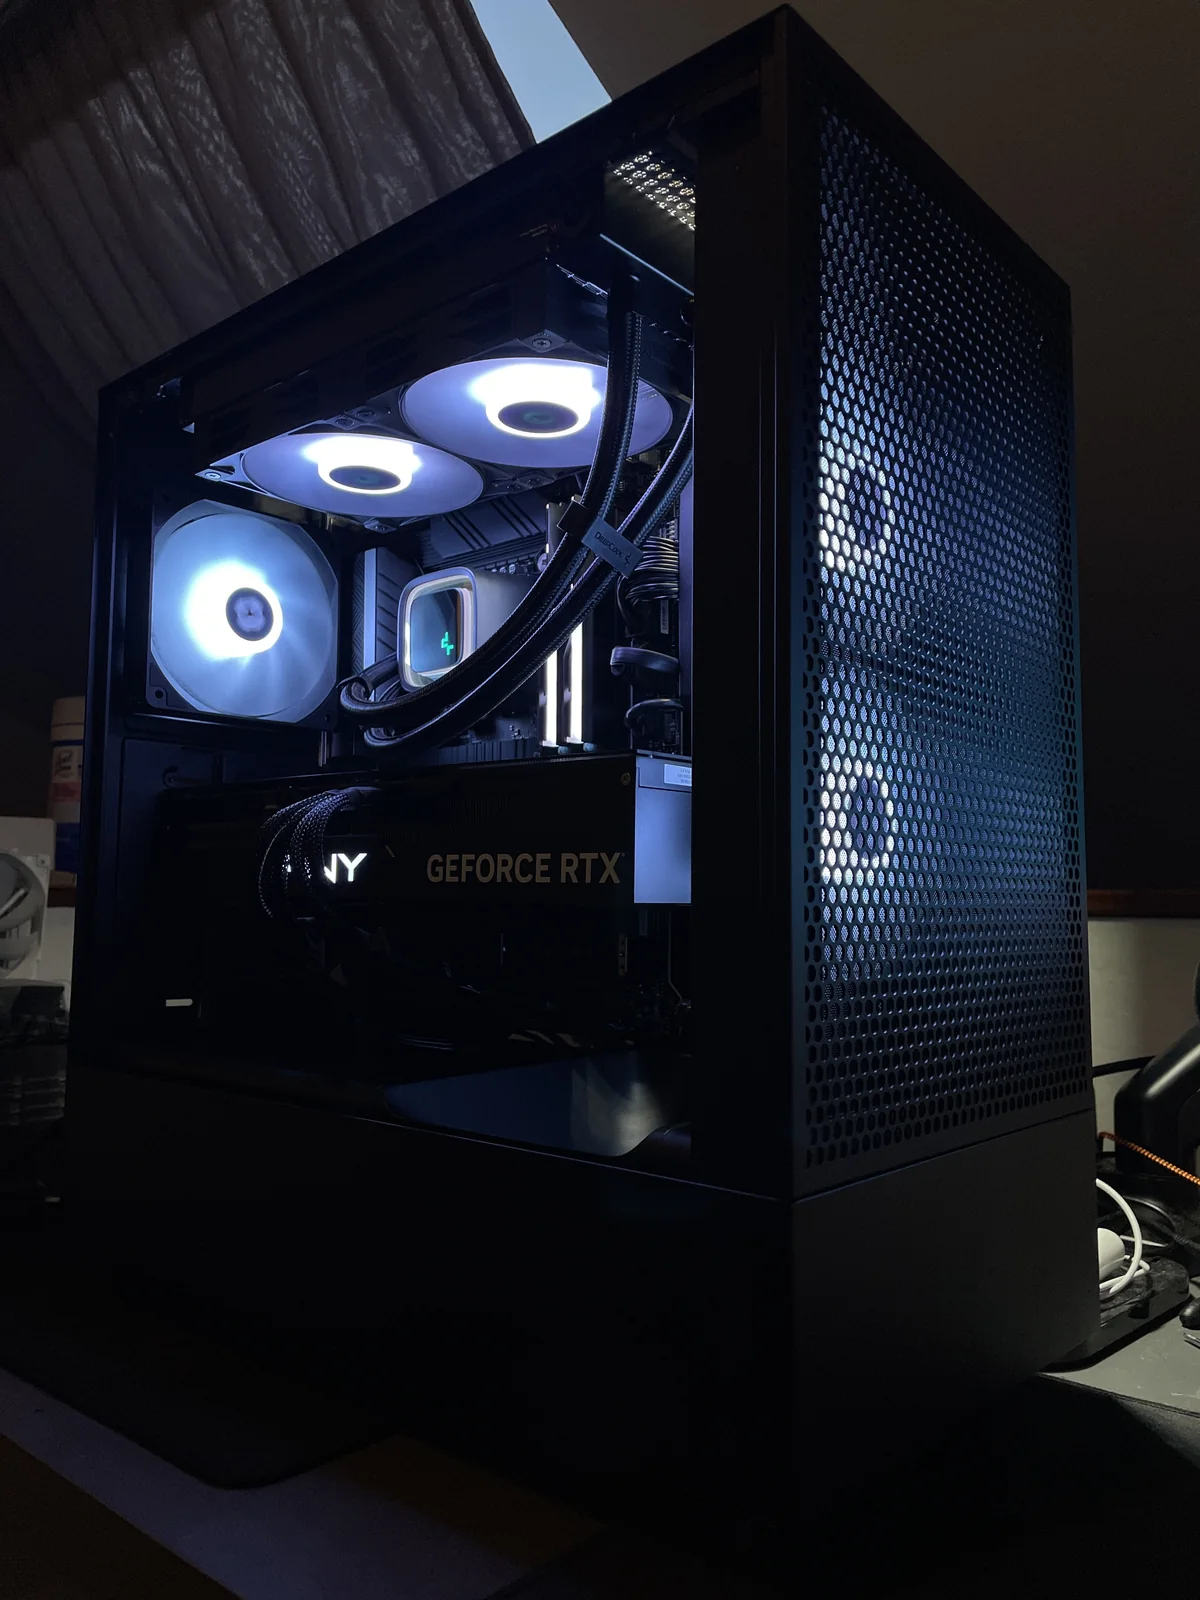
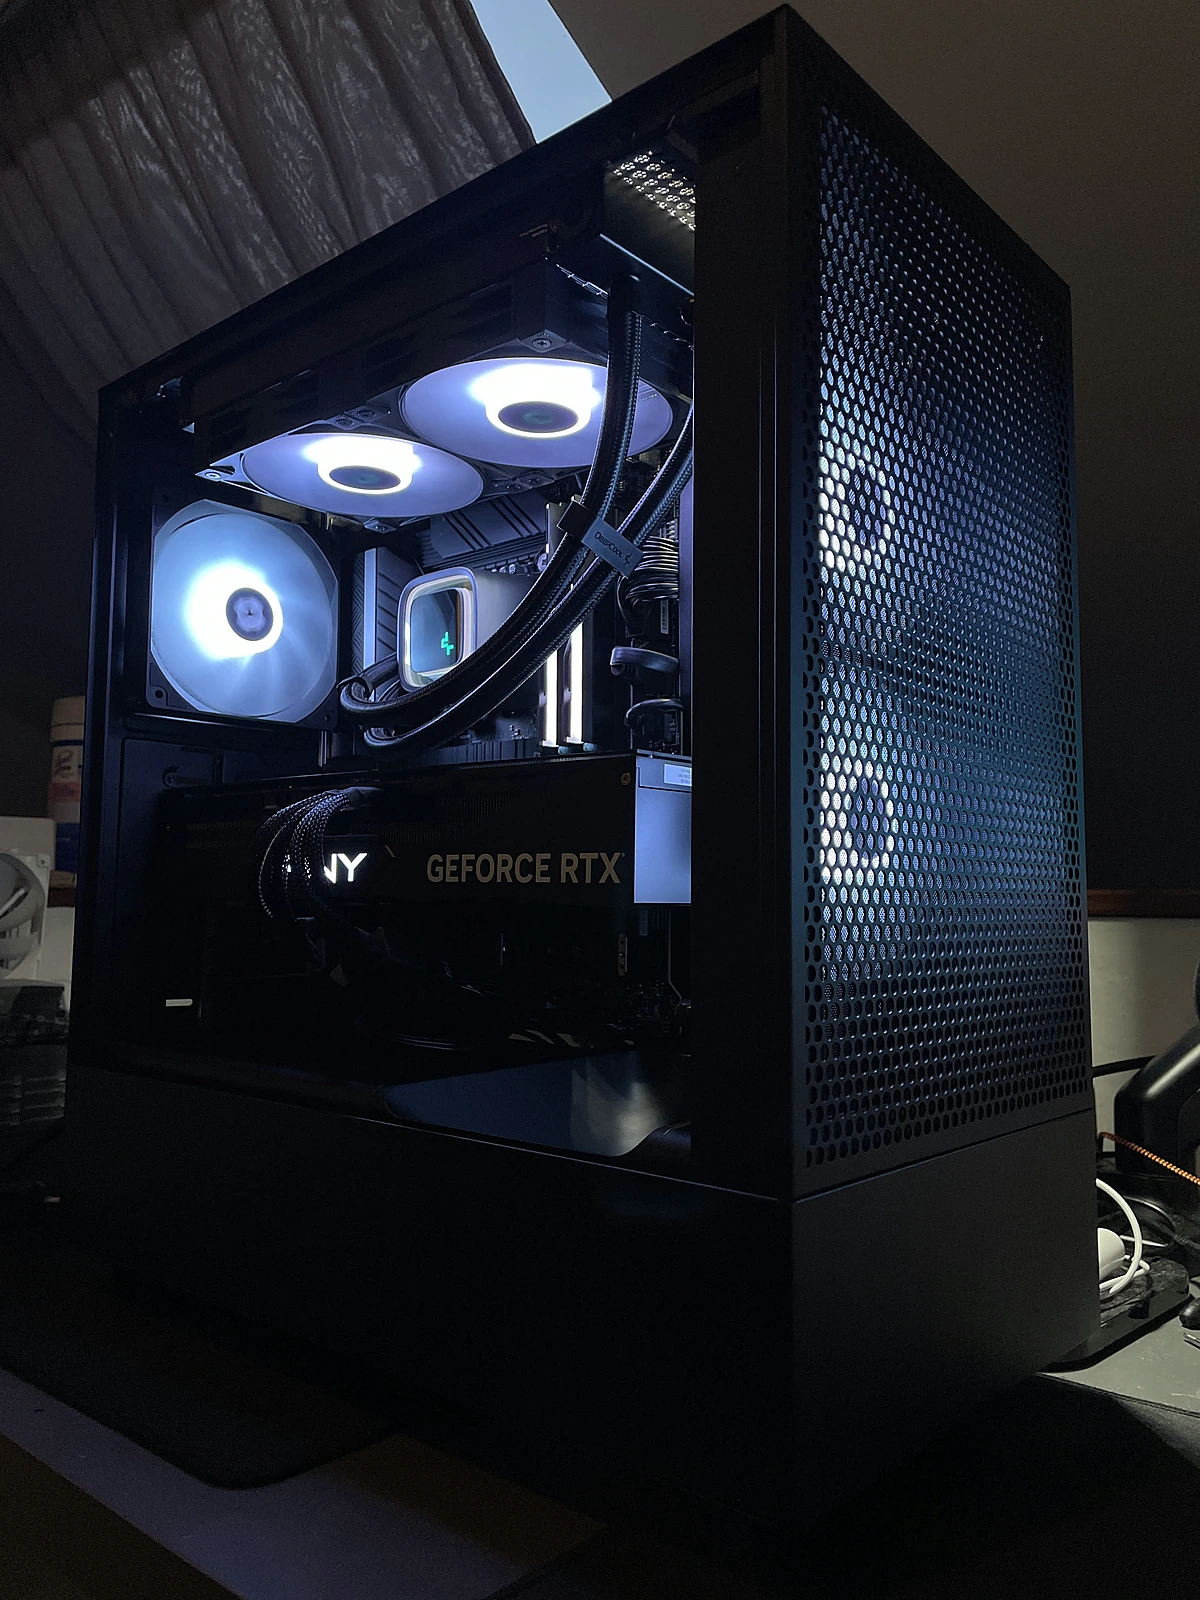
Improve build gallery experience

diff --git a/index.html b/index.html
@@ -84,6 +84,17 @@
   .proof h2{font-size:28px;color:var(--ink);margin-bottom:28px;}
   .photos{display:grid;grid-template-columns:1fr 1fr 1fr;gap:16px;margin-bottom:30px;}
   .photo{width:100%;height:auto;border:1px solid var(--border);border-radius:10px;display:block;}
+  .photo-button{appearance:none;background:none;border:0;padding:0;margin:0;width:100%;min-width:0;display:block;border-radius:10px;cursor:zoom-in;}
+  .photo-button:hover .photo{border-color:var(--blue);box-shadow:0 8px 22px rgba(59,107,181,.16);}
+  .photo-button:focus-visible{outline:2px solid var(--blue);outline-offset:3px;}
+  .lightbox{position:fixed;inset:0;z-index:1000;display:flex;align-items:center;justify-content:center;padding:24px;background:rgba(0,0,0,.88);}
+  .lightbox[hidden]{display:none;}
+  .lightbox-content{position:relative;max-width:100%;max-height:100%;display:flex;align-items:center;justify-content:center;}
+  .lightbox-image{display:block;width:auto;height:auto;max-width:calc(100vw - 48px);max-height:calc(100vh - 48px);object-fit:contain;border-radius:10px;}
+  .lightbox-close{position:absolute;top:8px;right:8px;width:44px;height:44px;border:0;border-radius:50%;background:#fff;color:var(--ink);font-size:28px;line-height:1;cursor:pointer;}
+  .lightbox-close:hover{background:var(--bg-soft);}
+  .lightbox-close:focus-visible{outline:3px solid var(--blue);outline-offset:2px;}
+  body.lightbox-open{overflow:hidden;}
   .reviews{display:grid;grid-template-columns:1fr 1fr;gap:16px;text-align:left;}
   .review{background:#fff;border:1px solid var(--border);border-radius:10px;padding:20px;}
   .review .stars{color:#f5b716;font-size:15px;margin-bottom:8px;}
@@ -117,7 +128,9 @@
   .note{background:#eef2f9;border-left:4px solid var(--blue);padding:12px 18px;margin:0 auto 24px;max-width:880px;font-size:13px;color:var(--muted);}
   @media(max-width:640px){
     .hero h1{font-size:36px;}
-    .photos{grid-template-columns:1fr;}
+    .photos{display:flex;overflow-x:auto;gap:16px;scroll-snap-type:x mandatory;scrollbar-width:none;-webkit-overflow-scrolling:touch;}
+    .photos::-webkit-scrollbar{display:none;}
+    .photos .photo-button{width:85%;flex:0 0 85%;scroll-snap-align:start;}
     .reviews{grid-template-columns:1fr;}
     .stats-grid{gap:36px;}
   }
@@ -205,9 +218,15 @@
     <div class="wrap">
       <h2>Real builds, real clients</h2>
       <div class="photos">
-        <img class="photo" src="images/dawn-build.webp" alt="DeParts Systems Dawn custom gaming PC build" width="1200" height="1600" loading="lazy">
-        <img class="photo" src="images/dusk-build.webp" alt="DeParts Systems Dusk custom gaming PC build" width="1200" height="1600" loading="lazy">
-        <img class="photo" src="images/eclipse-build.webp" alt="DeParts Systems Eclipse custom gaming PC build" width="1200" height="1600" loading="lazy">
+        <button class="photo-button" type="button" aria-haspopup="dialog" aria-label="Open enlarged Dawn build photo">
+          <img class="photo" src="images/dawn-build.webp" alt="DeParts Systems Dawn custom gaming PC build" width="1200" height="1600" loading="lazy" draggable="false">
+        </button>
+        <button class="photo-button" type="button" aria-haspopup="dialog" aria-label="Open enlarged Dusk build photo">
+          <img class="photo" src="images/dusk-build.webp" alt="DeParts Systems Dusk custom gaming PC build" width="1200" height="1600" loading="lazy" draggable="false">
+        </button>
+        <button class="photo-button" type="button" aria-haspopup="dialog" aria-label="Open enlarged Eclipse build photo">
+          <img class="photo" src="images/eclipse-build.webp" alt="DeParts Systems Eclipse custom gaming PC build" width="1200" height="1600" loading="lazy" draggable="false">
+        </button>
       </div>
       <div class="rev-slider">
         <div class="rev-viewport" id="revViewport">
@@ -330,7 +349,87 @@
     DeParts Systems &middot; Alameda, CA &middot; Ships Nationally &middot; Cutting Edge, No Cut Corners.
 </div>
 
+  <div class="lightbox" id="buildLightbox" role="dialog" aria-modal="true" aria-label="Enlarged build photo" hidden>
+    <div class="lightbox-content">
+      <button class="lightbox-close" id="buildLightboxClose" type="button" aria-label="Close enlarged build photo">&times;</button>
+      <img class="lightbox-image" id="buildLightboxImage" alt="">
+    </div>
+  </div>
+
   <script>
+  (function(){
+    var lightbox = document.getElementById('buildLightbox');
+    var lightboxImage = document.getElementById('buildLightboxImage');
+    var closeButton = document.getElementById('buildLightboxClose');
+    var triggers = document.querySelectorAll('.photo-button');
+    var lastTrigger = null;
+    if(!lightbox || !lightboxImage || !closeButton) return;
+
+    function openLightbox(trigger){
+      var image = trigger.querySelector('.photo');
+      lastTrigger = trigger;
+      lightboxImage.src = image.src;
+      lightboxImage.alt = image.alt;
+      lightbox.hidden = false;
+      document.body.classList.add('lightbox-open');
+      closeButton.focus();
+    }
+
+    function closeLightbox(){
+      if(lightbox.hidden) return;
+      lightbox.hidden = true;
+      document.body.classList.remove('lightbox-open');
+      lightboxImage.removeAttribute('src');
+      lightboxImage.alt = '';
+      if(lastTrigger){ lastTrigger.focus(); }
+    }
+
+    for(var p = 0; p < triggers.length; p++){
+      (function(trigger){
+        var startX = 0;
+        var startY = 0;
+        var dragged = false;
+        trigger.addEventListener('pointerdown', function(e){
+          startX = e.clientX;
+          startY = e.clientY;
+          dragged = false;
+        });
+        trigger.addEventListener('pointermove', function(e){
+          if(Math.abs(e.clientX - startX) > 10 || Math.abs(e.clientY - startY) > 10){ dragged = true; }
+        });
+        trigger.addEventListener('pointerup', function(e){
+          if(Math.abs(e.clientX - startX) > 10 || Math.abs(e.clientY - startY) > 10){ dragged = true; }
+        });
+        trigger.addEventListener('pointercancel', function(){ dragged = true; });
+
+        trigger.addEventListener('click', function(e){
+          if(e.detail !== 0 && dragged){
+            e.preventDefault();
+            dragged = false;
+            return;
+          }
+          dragged = false;
+          openLightbox(trigger);
+        });
+      })(triggers[p]);
+    }
+
+    closeButton.addEventListener('click', closeLightbox);
+    lightbox.addEventListener('click', function(e){
+      if(e.target === lightbox){ closeLightbox(); }
+    });
+    document.addEventListener('keydown', function(e){
+      if(lightbox.hidden) return;
+      if(e.key === 'Escape'){
+        e.preventDefault();
+        closeLightbox();
+      }else if(e.key === 'Tab'){
+        e.preventDefault();
+        closeButton.focus();
+      }
+    });
+  })();
+
   document.querySelectorAll('[data-cta-location]').forEach(function(cta){
     cta.addEventListener('click', function(){
       gtag('event', 'cta_click', {
